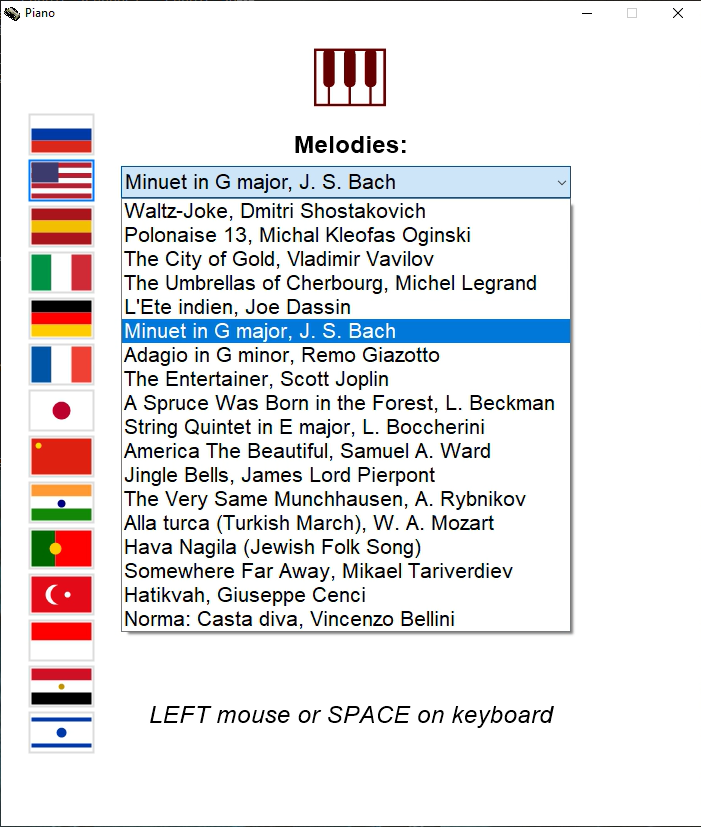
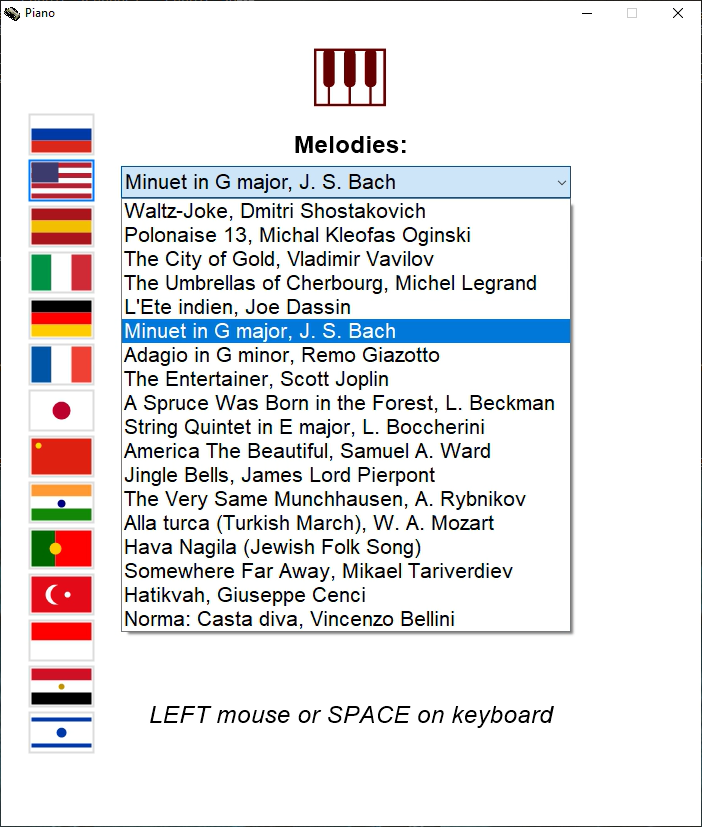
Add

diff --git a/README.md b/README.md
@@ -1,4 +1,5 @@
-<img src="Piano.png" width="701">
+<img src="Piano.png" width="702">
+
 # 🎹 Piano MIDI Synthesizer & Player
 Welcome to the official release of **Piano** — a lightweight, standalone virtual piano and audio synthesizer for Windows.
           
